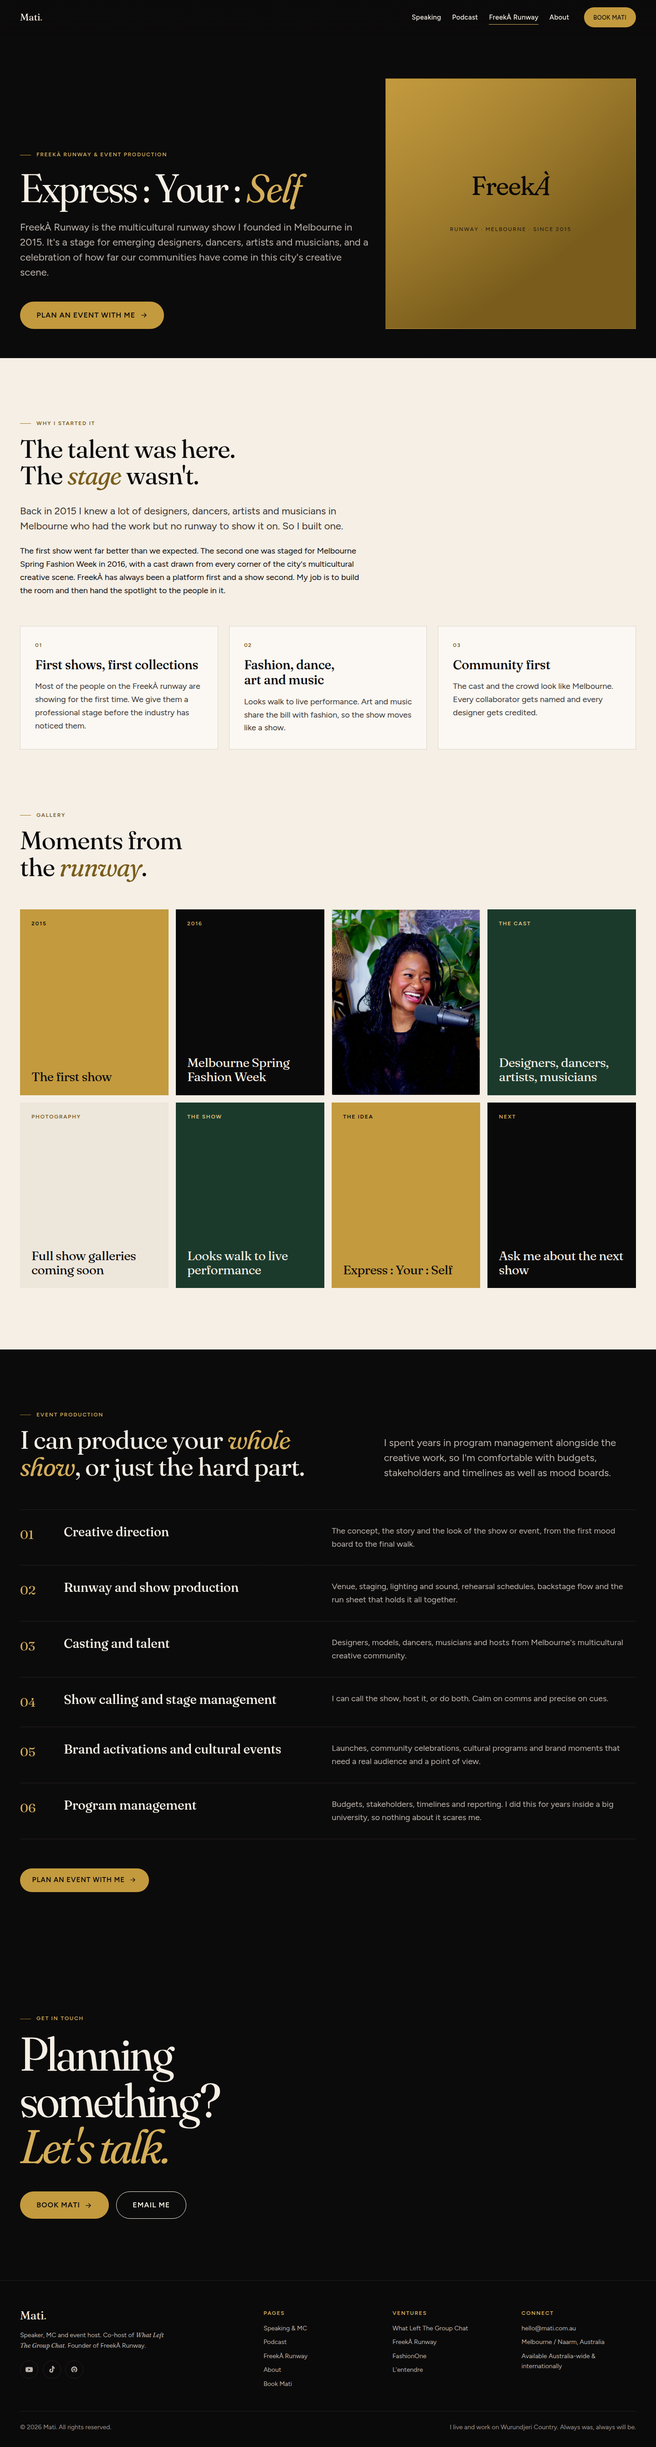
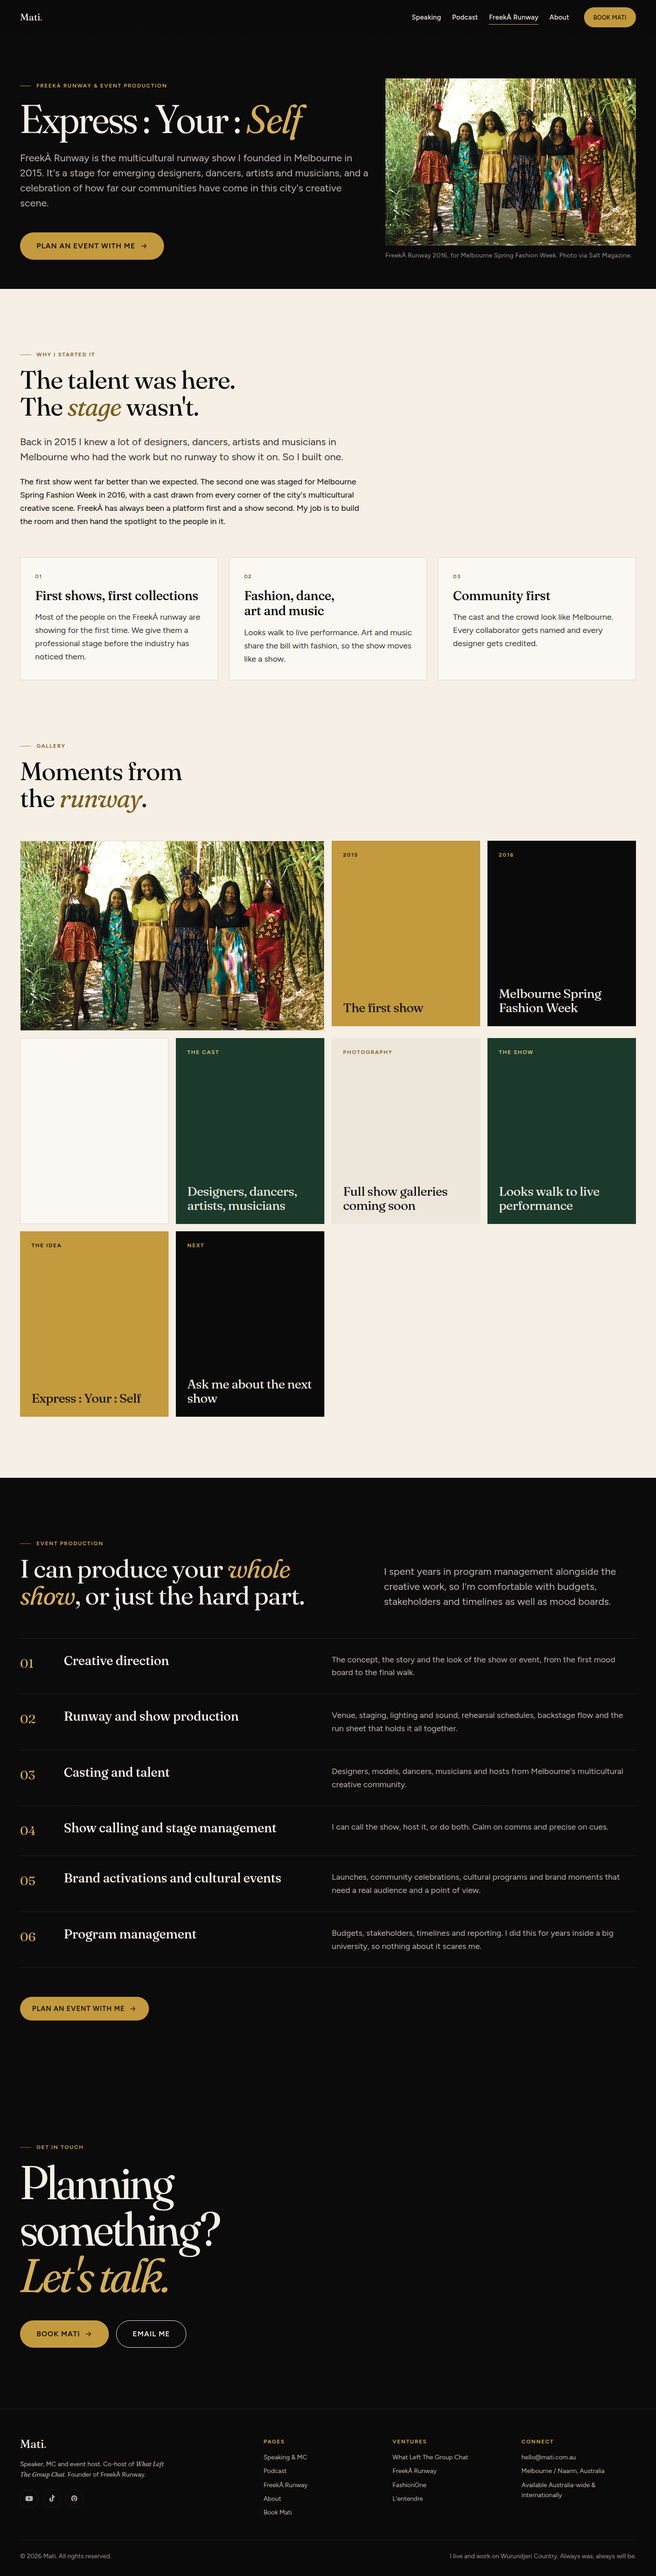
Mati site: keep the one real FreekÀ 2016 photo, drop unrelated Salt thumbnails
The scraper pulled related-post thumbnails from across Salt Magazine; only
the first image is the FreekÀ Runway 2016 collection. Keep it in the FreekÀ
hero, gallery and home tile with a Salt Magazine credit, remove the other
seven, and restrict the scraper to the article body for future runs.

Claude-Session: https://claude.ai/code/session_01B7ofK1SHf5snMSMw1NCzFK

diff --git a/mati-chinyanda/freeka-runway.html b/mati-chinyanda/freeka-runway.html
@@ -45,7 +45,7 @@
       <div class="btn-row mt-7"><a class="btn btn--gold btn--lg" href="/book?type=production">Plan an event with me <svg viewBox="0 0 24 24" aria-hidden="true"><path d="M5 12h14M13 6l6 6-6 6"/></svg></a></div>
     </div>
     <div data-reveal>
-      <img src="/assets/img/freeka-01.webp" alt="A look on the FreekÀ Runway" style="width:100%;aspect-ratio:4/5;object-fit:cover">
+      <figure class="figure"><img src="/assets/img/freeka-01.webp" width="1050" height="700" alt="Six models in African-print looks from the FreekÀ Runway 2016 collection, walking through bamboo" style="aspect-ratio:3/2"><figcaption class="caption" style="color:var(--ink-400)">FreekÀ Runway 2016, for Melbourne Spring Fashion Week. Photo via Salt Magazine.</figcaption></figure>
     </div>
   </div>
 </section>
@@ -72,14 +72,15 @@
   <div class="container">
     <div class="section-head" data-reveal><p class="eyebrow">Gallery</p><h2 id="gallery-title">Moments from the <em>runway</em>.</h2></div>
     <div class="gallery" data-lightbox data-reveal-stagger>
-      <a href="/assets/img/freeka-02.webp" data-full="/assets/img/freeka-02.webp"><img src="/assets/img/freeka-02.webp" loading="lazy" alt="FreekÀ Runway"></a>
-      <a href="/assets/img/freeka-03.webp" data-full="/assets/img/freeka-03.webp"><img src="/assets/img/freeka-03.webp" loading="lazy" alt="FreekÀ Runway"></a>
+      <a href="/assets/img/freeka-01.webp" data-full="/assets/img/freeka-01.webp" data-caption="FreekÀ Runway 2016 for Melbourne Spring Fashion Week. Photo via Salt Magazine." class="tile--wide"><img src="/assets/img/freeka-01.webp" width="1050" height="700" loading="lazy" alt="Six models in African-print looks from FreekÀ Runway 2016"></a>
+      <div class="tile tile--type tile--gold"><small>2015</small>The first show</div>
+      <div class="tile tile--type tile--ink"><small>2016</small>Melbourne Spring Fashion Week</div>
       <a href="/assets/img/portrait-45.webp" data-full="/assets/img/portrait-45.webp" data-caption="Mati, founder and creative director of FreekÀ Runway"><img src="/assets/img/portrait-45.webp" width="1083" height="1354" loading="lazy" alt="Mati, founder of FreekÀ Runway, laughing in a black fur coat"></a>
-      <a href="/assets/img/freeka-04.webp" data-full="/assets/img/freeka-04.webp"><img src="/assets/img/freeka-04.webp" loading="lazy" alt="FreekÀ Runway"></a>
-      <a href="/assets/img/freeka-05.webp" data-full="/assets/img/freeka-05.webp"><img src="/assets/img/freeka-05.webp" loading="lazy" alt="FreekÀ Runway"></a>
-      <a href="/assets/img/freeka-06.webp" data-full="/assets/img/freeka-06.webp"><img src="/assets/img/freeka-06.webp" loading="lazy" alt="FreekÀ Runway"></a>
-      <a href="/assets/img/freeka-07.webp" data-full="/assets/img/freeka-07.webp"><img src="/assets/img/freeka-07.webp" loading="lazy" alt="FreekÀ Runway"></a>
-      <a href="/assets/img/freeka-08.webp" data-full="/assets/img/freeka-08.webp"><img src="/assets/img/freeka-08.webp" loading="lazy" alt="FreekÀ Runway"></a>
+      <div class="tile tile--type tile--forest"><small>The cast</small>Designers, dancers, artists, musicians</div>
+      <div class="tile tile--type"><small>Photography</small>Full show galleries coming soon</div>
+      <div class="tile tile--type tile--forest"><small>The show</small>Looks walk to live performance</div>
+      <div class="tile tile--type tile--gold"><small>The idea</small>Express : Your : Self</div>
+      <div class="tile tile--type tile--ink"><small>Next</small>Ask me about the next show</div>
     </div>
   </div>
 </section>

diff --git a/mati-chinyanda/docs/tools/pages/04-freeka.html b/mati-chinyanda/docs/tools/pages/04-freeka.html
@@ -8,7 +8,7 @@
       <div class="btn-row mt-7"><a class="btn btn--gold btn--lg" href="/book?type=production">Plan an event with me {{icon:arrow}}</a></div>
     </div>
     <div data-reveal>
-      {{ifimg:freeka-01}}<img src="/assets/img/freeka-01.webp" alt="A look on the FreekÀ Runway" style="width:100%;aspect-ratio:4/5;object-fit:cover">{{else}}<div class="podcast__art" style="background:linear-gradient(145deg,var(--gold-500),var(--gold-700) 70%);border-color:transparent"><div><p class="title" style="color:var(--ink-950)">Freek<em style="color:var(--ink-950)">À</em></p><p class="sub" style="color:var(--ink-900)">Runway · Melbourne · since 2015</p></div></div>{{endimg}}
+      {{ifimg:freeka-01}}<figure class="figure"><img src="/assets/img/freeka-01.webp" width="1050" height="700" alt="Six models in African-print looks from the FreekÀ Runway 2016 collection, walking through bamboo" style="aspect-ratio:3/2"><figcaption class="caption" style="color:var(--ink-400)">FreekÀ Runway 2016, for Melbourne Spring Fashion Week. Photo via Salt Magazine.</figcaption></figure>{{else}}<div class="podcast__art" style="background:linear-gradient(145deg,var(--gold-500),var(--gold-700) 70%);border-color:transparent"><div><p class="title" style="color:var(--ink-950)">Freek<em style="color:var(--ink-950)">À</em></p><p class="sub" style="color:var(--ink-900)">Runway · Melbourne · since 2015</p></div></div>{{endimg}}
     </div>
   </div>
 </section>
@@ -35,6 +35,7 @@
   <div class="container">
     <div class="section-head" data-reveal><p class="eyebrow">Gallery</p><h2 id="gallery-title">Moments from the <em>runway</em>.</h2></div>
     <div class="gallery" data-lightbox data-reveal-stagger>
+      {{ifimg:freeka-01}}<a href="/assets/img/freeka-01.webp" data-full="/assets/img/freeka-01.webp" data-caption="FreekÀ Runway 2016 for Melbourne Spring Fashion Week. Photo via Salt Magazine." class="tile--wide"><img src="/assets/img/freeka-01.webp" width="1050" height="700" loading="lazy" alt="Six models in African-print looks from FreekÀ Runway 2016"></a>{{endimg}}
       {{ifimg:freeka-02}}<a href="/assets/img/freeka-02.webp" data-full="/assets/img/freeka-02.webp"><img src="/assets/img/freeka-02.webp" loading="lazy" alt="FreekÀ Runway"></a>{{else}}<div class="tile tile--type tile--gold"><small>2015</small>The first show</div>{{endimg}}
       {{ifimg:freeka-03}}<a href="/assets/img/freeka-03.webp" data-full="/assets/img/freeka-03.webp"><img src="/assets/img/freeka-03.webp" loading="lazy" alt="FreekÀ Runway"></a>{{else}}<div class="tile tile--type tile--ink"><small>2016</small>Melbourne Spring Fashion Week</div>{{endimg}}
       <a href="/assets/img/portrait-45.webp" data-full="/assets/img/portrait-45.webp" data-caption="Mati, founder and creative director of FreekÀ Runway"><img src="/assets/img/portrait-45.webp" width="1083" height="1354" loading="lazy" alt="Mati, founder of FreekÀ Runway, laughing in a black fur coat"></a>

diff --git a/mati-chinyanda/docs/tools/pages/01-home.html b/mati-chinyanda/docs/tools/pages/01-home.html
@@ -187,7 +187,7 @@
     </div>
     <div class="gallery" data-reveal-stagger>
       <div class="tile tile--type tile--gold"><small>FreekÀ Runway</small>Express<br>: Your :<br>Self</div>
-      {{ifimg:freeka-01}}<a href="/assets/img/freeka-01.webp" data-full="/assets/img/freeka-01.webp" class="tile--wide"><img src="/assets/img/freeka-01.webp" loading="lazy" alt="On the runway at FreekÀ"></a>{{else}}<a href="/assets/img/detail.webp" data-full="/assets/img/detail.webp" data-caption="Mati, founder of FreekÀ Runway" class="tile--wide"><img src="/assets/img/detail.webp" width="1400" height="933" loading="lazy" alt="Mati laughing, photographed close in a fur coat with a studio mic"></a>{{endimg}}
+      {{ifimg:freeka-01}}<a href="/assets/img/freeka-01.webp" data-full="/assets/img/freeka-01.webp" data-caption="FreekÀ Runway 2016 for Melbourne Spring Fashion Week. Photo via Salt Magazine." class="tile--wide"><img src="/assets/img/freeka-01.webp" width="1050" height="700" loading="lazy" alt="Six models in African-print looks from FreekÀ Runway 2016"></a>{{else}}<a href="/assets/img/detail.webp" data-full="/assets/img/detail.webp" data-caption="Mati, founder of FreekÀ Runway" class="tile--wide"><img src="/assets/img/detail.webp" width="1400" height="933" loading="lazy" alt="Mati laughing, photographed close in a fur coat with a studio mic"></a>{{endimg}}
       <div class="tile tile--type tile--forest"><small>Melbourne</small>Fashion, dance, art and music</div>
       <div class="tile tile--type tile--ink"><small>2015</small>The first show</div>
       <div class="tile tile--type"><small>2016</small>Melbourne Spring Fashion Week</div>

diff --git a/mati-chinyanda/index.html b/mati-chinyanda/index.html
@@ -219,7 +219,7 @@
     </div>
     <div class="gallery" data-reveal-stagger>
       <div class="tile tile--type tile--gold"><small>FreekÀ Runway</small>Express<br>: Your :<br>Self</div>
-      <a href="/assets/img/freeka-01.webp" data-full="/assets/img/freeka-01.webp" class="tile--wide"><img src="/assets/img/freeka-01.webp" loading="lazy" alt="On the runway at FreekÀ"></a>
+      <a href="/assets/img/freeka-01.webp" data-full="/assets/img/freeka-01.webp" data-caption="FreekÀ Runway 2016 for Melbourne Spring Fashion Week. Photo via Salt Magazine." class="tile--wide"><img src="/assets/img/freeka-01.webp" width="1050" height="700" loading="lazy" alt="Six models in African-print looks from FreekÀ Runway 2016"></a>
       <div class="tile tile--type tile--forest"><small>Melbourne</small>Fashion, dance, art and music</div>
       <div class="tile tile--type tile--ink"><small>2015</small>The first show</div>
       <div class="tile tile--type"><small>2016</small>Melbourne Spring Fashion Week</div>

diff --git a/mati-chinyanda/docs/tools/fetch-freeka.py b/mati-chinyanda/docs/tools/fetch-freeka.py
@@ -14,6 +14,15 @@ UA = {"User-Agent": "Mozilla/5.0 (Macintosh; Intel Mac OS X 10_15_7) AppleWebKit
 def get(url):
     return urllib.request.urlopen(urllib.request.Request(url, headers=UA), timeout=60).read()
 page = get(URL).decode("utf-8", "ignore")
+# Keep only the article body: from the entry content to the first related/comments/footer block.
+m = re.search(r'class="[^"]*(?:entry-content|post-content|td-post-content|article-content)[^"]*"', page)
+if m:
+    body = page[m.start():]
+    end = re.search(r'(?:class="[^"]*(?:related|comments|yarpp|jp-relatedposts|td-post-next-prev|post-navigation|sidebar|footer)[^"]*"|<footer|</article>)', body[200:])
+    page = body[: 200 + end.start()] if end else body
+    print("restricted to article body:", len(page), "chars")
+else:
+    print("WARNING: could not find the article body, scanning whole page (may include unrelated images)")
 cands = set()
 for m in re.finditer(r'(?:src|data-src|data-lazy-src|href)=["\']([^"\']+?\.(?:jpe?g|png|webp))(?:\?[^"\']*)?["\']', page, re.I):
     u = html.unescape(m.group(1))
